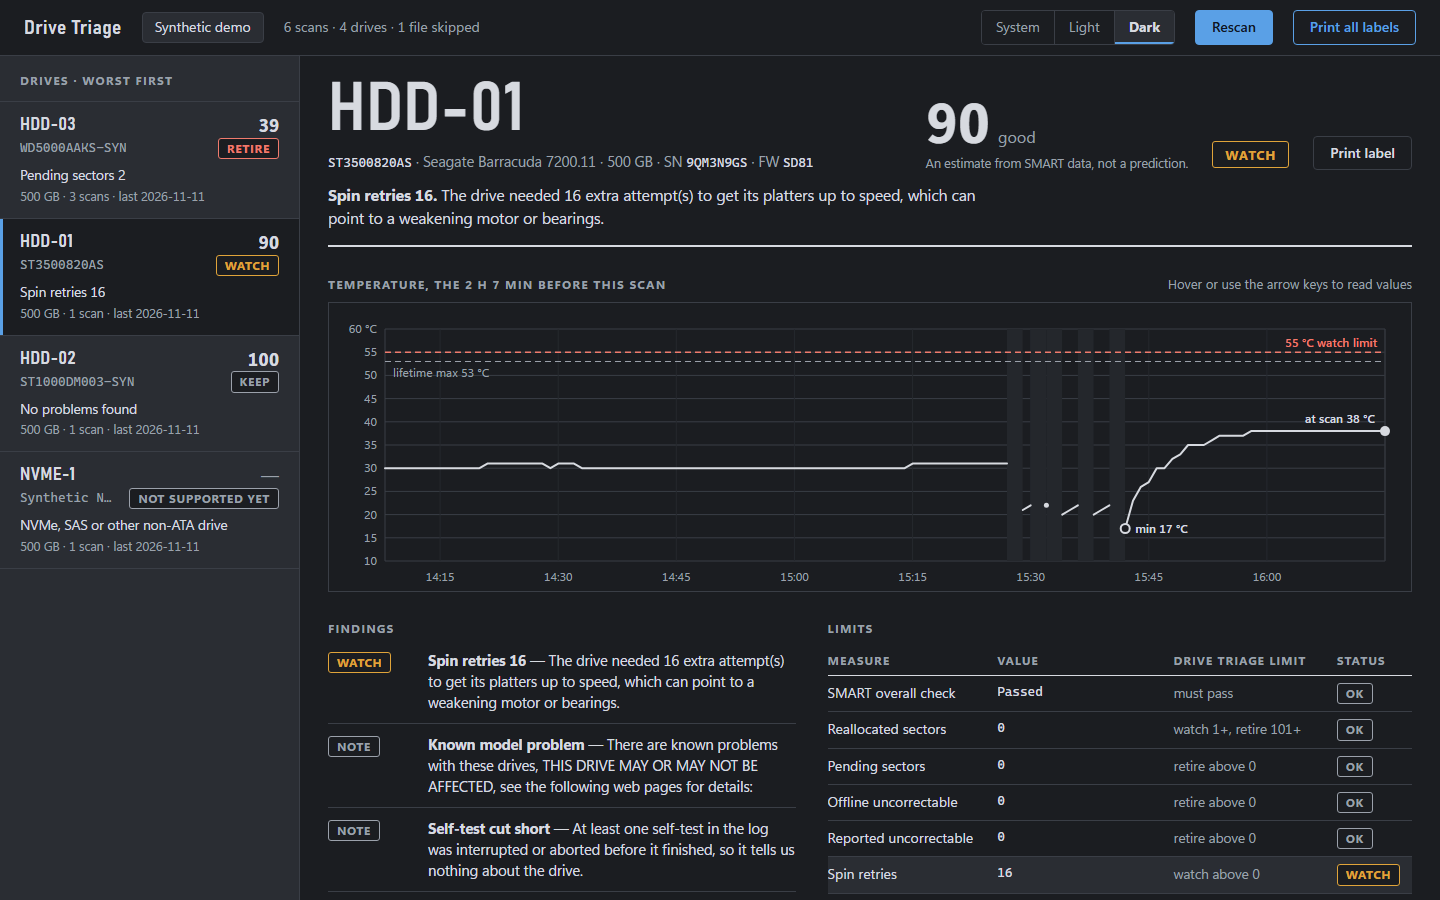
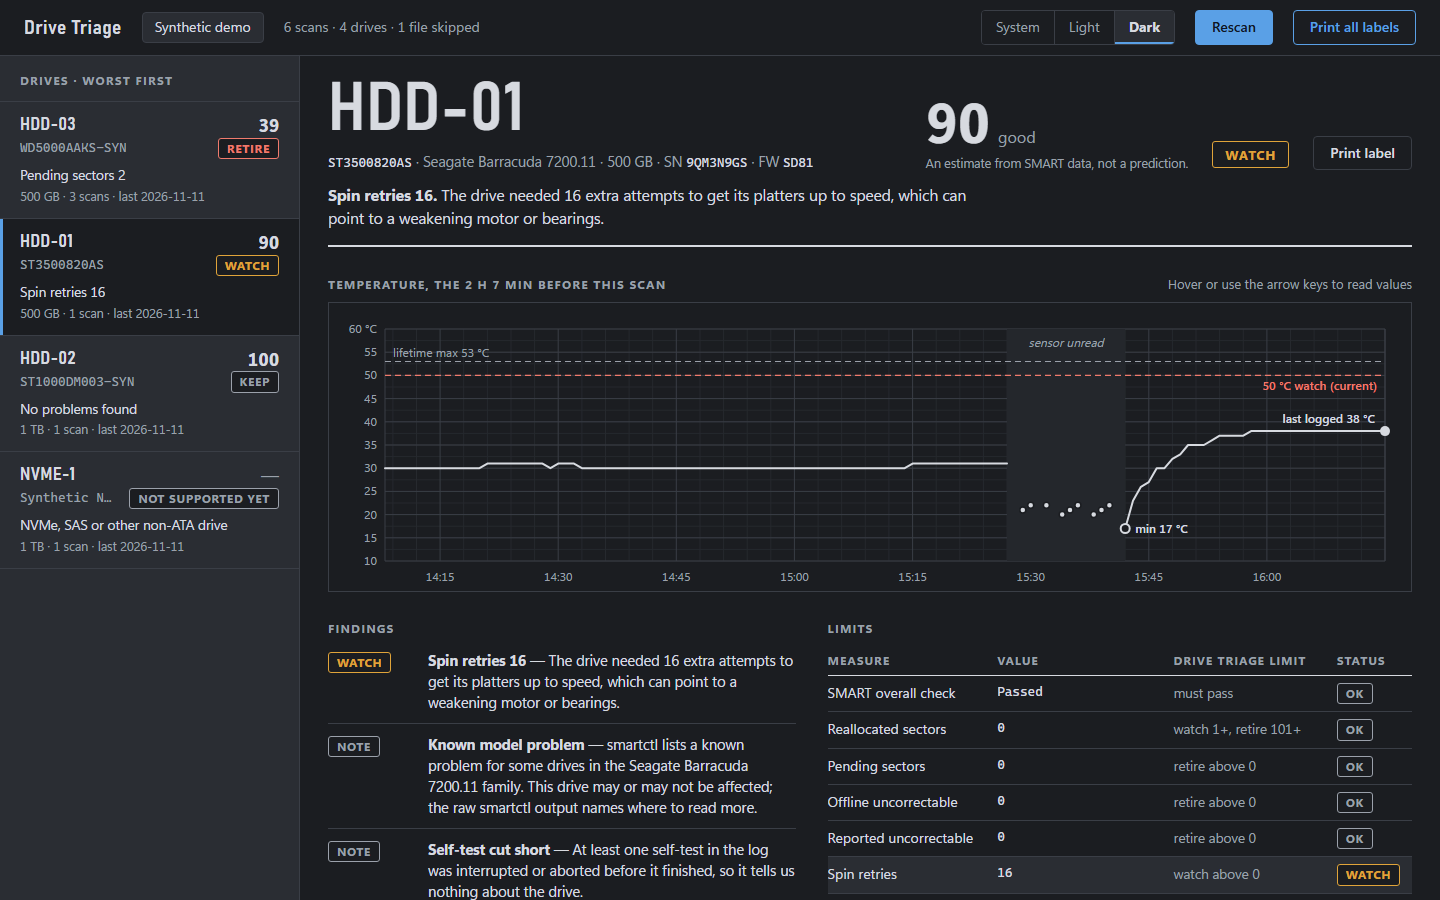
fix: honest temperature curve, graph-paper grid, and unbroken part line
The curve's endpoint reads "last logged" (the SCT log's last sample), so
it can never contradict the Limits "now" value from temperature.current.
The dashed watch line uses RULES.tempCurrentWatch, since the curve plots
instantaneous temperature. A minor graph-paper grid sits under the major
lines. Unread runs separated by three or fewer readings merge into one
"sensor unread" band, with readings inside it and isolated readings drawn
as point marks. Masthead fields (model, family, capacity, SN, FW) are
no-wrap groups so narrow screens break only between fields. README
screenshots are retaken from the current build.

diff --git a/app.js b/app.js
@@ -563,12 +563,15 @@ function masthead(entry) {
   const a = entry.assessment;
   const s = d.latest;
   const mono = (t) => h('span', { class: 'mono', text: t });
+  // each field is a no-wrap group, so narrow screens break lines only between fields
+  const field = (...kids) => h('span', { class: 'nw' }, kids);
+  const cap = SA.formatCapacity(s.capacityBytes);
   const sub = h('p', { class: 'mast-sub' }, joinDot([
-    s.model ? mono(s.model) : null,
-    s.family || null,
-    SA.formatCapacity(s.capacityBytes) || null,
-    ['SN ', mono(s.serial)],
-    s.firmware ? ['FW ', mono(s.firmware)] : null
+    s.model ? field(mono(s.model)) : null,
+    s.family ? field(s.family) : null,
+    cap ? field(cap) : null,
+    field('SN ', mono(s.serial)),
+    s.firmware ? field('FW ', mono(s.firmware)) : null
   ]));
   const score = h('div', { class: 'score' },
     h('p', { class: 'score-line' },
@@ -804,6 +807,21 @@ function rawSection(s) {
 }
 
 // -------------------------------------------------------------------------- curve
+// Null runs in the SCT log separated by MERGE_GAP or fewer readings form one unread band: [[start, end]].
+const MERGE_GAP = 3;
+function unreadBands(hist) {
+  const bands = [];
+  for (let i = 0; i < hist.length; i++) {
+    if (hist[i] !== null) continue;
+    let j = i;
+    while (j + 1 < hist.length && hist[j + 1] === null) j++;
+    const prev = bands[bands.length - 1];
+    if (prev && i - prev[1] - 1 <= MERGE_GAP) prev[1] = j; else bands.push([i, j]);
+    i = j;
+  }
+  return bands;
+}
+
 let curveObserver = null;
 function disconnectCurve() {
   if (curveObserver) { curveObserver.disconnect(); curveObserver = null; }
@@ -856,7 +874,7 @@ function mountCurve(plot, liveRegion, s) {
     const v = hist[i];
     const before = (n - 1 - i) * SAMPLE_MINUTES;
     const d = sampleDate(i);
-    const when = (d ? fmtClock(d) + ', ' : '') + (before === 0 ? 'at the scan' : fmtSpan(before) + ' before the scan');
+    const when = (d ? fmtClock(d) + ', ' : '') + (before === 0 ? 'last logged sample' : fmtSpan(before) + ' before the scan');
     return { value: v === null ? 'sensor unread' : v + ' °C', when };
   };
 
@@ -868,7 +886,7 @@ function mountCurve(plot, liveRegion, s) {
     const ph = H - m.t - m.b;
     const known = hist.filter((v) => v !== null);
     const life = s.temp && typeof s.temp.lifetimeMax === 'number' ? s.temp.lifetimeMax : null;
-    const watch = R.tempLifetimeWatch;
+    const watch = R.tempCurrentWatch; // the curve plots instantaneous temperature
     let lo = Math.min.apply(null, known);
     let hi = Math.max.apply(null, known.concat([watch], life === null ? [] : [life]));
     let y0 = Math.floor((lo - 3) / 5) * 5;
@@ -880,47 +898,57 @@ function mountCurve(plot, liveRegion, s) {
 
     const root = svg('svg', { viewBox: '0 0 ' + W + ' ' + H, width: String(W), height: String(H), 'aria-hidden': 'true', focusable: 'false' });
 
-    // grid: horizontal every 5 degrees, labels every 5 or 10 depending on height
+    // graph paper: minor cells under major lines (5 degrees, clock ticks); labels every 5 or 10 degrees
     const labelEvery = ph / ((y1 - y0) / 5) < 20 ? 10 : 5;
+    const pxPerMin = n > 1 ? pw / ((n - 1) * SAMPLE_MINUTES) : pw;
+    const step = [5, 10, 15, 30, 60, 120, 240, 480].find((st) => st * pxPerMin >= 90) || 480;
+    const sub = [10, 6, 5, 4, 3, 2].find((k) => step % k === 0 && (step / k) * pxPerMin >= 12) || 1;
+    const minorH = [];
     const gridH = [];
+    for (let v = y0; v <= y1; v += 2.5) minorH.push('M' + m.l + ' ' + y(v).toFixed(1) + 'H' + (m.l + pw));
     for (let v = y0; v <= y1; v += 5) gridH.push('M' + m.l + ' ' + y(v).toFixed(1) + 'H' + (m.l + pw));
-    root.append(svg('path', { class: 'grid-major', d: gridH.join(''), fill: 'none' }));
     for (let v = y0; v <= y1; v += 5) {
       if (v % labelEvery) continue;
       root.append(svg('text', { x: m.l - 8, y: (y(v) + 4).toFixed(1), 'text-anchor': 'end' }, v === y1 ? v + ' °C' : String(v)));
     }
 
-    // time ticks on round clock minutes, at least ~90px apart
-    const pxPerMin = n > 1 ? pw / ((n - 1) * SAMPLE_MINUTES) : pw;
-    const step = [5, 10, 15, 30, 60, 120, 240, 480].find((st) => st * pxPerMin >= 90) || 480;
+    // time ticks on round clock minutes, at least ~90px apart; minor lines between them
     const gridV = [];
+    const minorV = [];
+    const minorStep = step / sub;
     for (let i = 0; i < n; i++) {
       const d = sampleDate(i);
       const minutesBefore = (n - 1 - i) * SAMPLE_MINUTES;
-      const onTick = d ? (d.getHours() * 60 + d.getMinutes()) % step === 0 : minutesBefore % step === 0;
-      if (!onTick) continue;
+      const minuteOf = d ? d.getHours() * 60 + d.getMinutes() : -minutesBefore;
+      const onTick = ((minuteOf % step) + step) % step === 0;
+      const onMinor = sub > 1 && ((minuteOf % minorStep) + minorStep) % minorStep === 0;
       const xi = x(i);
+      if (!onTick) {
+        if (onMinor) minorV.push('M' + xi.toFixed(1) + ' ' + m.t + 'V' + (m.t + ph));
+        continue;
+      }
       gridV.push('M' + xi.toFixed(1) + ' ' + m.t + 'V' + (m.t + ph));
       if (xi > m.l + 18 && xi < m.l + pw - 18) {
         root.append(svg('text', { x: xi.toFixed(1), y: H - 6, 'text-anchor': 'middle' }, d ? fmtClock(d) : '−' + fmtSpan(minutesBefore)));
       }
     }
-    root.append(svg('path', { class: 'grid-minor', d: gridV.join(''), fill: 'none' }));
+    root.prepend(svg('path', { class: 'grid-minor', d: minorH.concat(minorV).join(''), fill: 'none' }),
+      svg('path', { class: 'grid-major', d: gridH.concat(gridV).join(''), fill: 'none' }));
     root.append(svg('path', { class: 'grid-major', d: 'M' + m.l + ' ' + m.t + 'V' + (m.t + ph) + 'M' + (m.l + pw) + ' ' + m.t + 'V' + (m.t + ph), fill: 'none' }));
 
-    // gaps where the sensor was not read
-    for (let i = 0; i < n; i++) {
-      if (hist[i] !== null) continue;
-      let j = i;
-      while (j + 1 < n && hist[j + 1] === null) j++;
-      const xa = x(Math.max(0, i - 1));
-      const xb = x(Math.min(n - 1, j + 1));
+    // bands where the sensor was not read: null runs separated by MERGE_GAP or fewer readings
+    // count as one band; readings inside a band are drawn as separate points, not a broken line
+    const bands = unreadBands(hist);
+    const inBand = new Array(n).fill(false);
+    bands.forEach(([a, b]) => {
+      for (let k = a; k <= b; k++) inBand[k] = true;
+      const xa = x(Math.max(0, a - 1));
+      const xb = x(Math.min(n - 1, b + 1));
       root.append(svg('rect', { class: 'gap', x: xa.toFixed(1), y: m.t, width: Math.max(2, xb - xa).toFixed(1), height: ph }));
-      if (xb - xa >= 96) {
-        root.append(svg('text', { class: 'gap-label', x: ((xa + xb) / 2).toFixed(1), y: (m.t + ph / 2).toFixed(1), 'text-anchor': 'middle' }, 'sensor unread'));
+      if (xb - xa >= 84) {
+        root.append(svg('text', { class: 'gap-label', x: ((xa + xb) / 2).toFixed(1), y: (m.t + 18).toFixed(1), 'text-anchor': 'middle' }, 'sensor unread'));
       }
-      i = j;
-    }
+    });
 
     // reference lines
     if (life !== null && life >= y0 && life <= y1) {
@@ -929,16 +957,20 @@ function mountCurve(plot, liveRegion, s) {
       const crowded = life <= watch && y(life) - y(watch) < 16;
       root.append(svg('text', { x: m.l + 8, y: (crowded ? y(life) + 15 : y(life) - 5).toFixed(1) }, 'lifetime max ' + life + ' °C'));
     }
+    // watch label above its line, unless the lifetime-max line sits just above it: then below
+    const watchCrowded = life !== null && life > watch && y(watch) - y(life) < 18;
     root.append(svg('path', { class: 'watch-line', d: 'M' + m.l + ' ' + y(watch).toFixed(1) + 'H' + (m.l + pw) }));
-    root.append(svg('text', { class: 'watch-label', x: m.l + pw - 8, y: (y(watch) - 5).toFixed(1), 'text-anchor': 'end' }, watch + ' °C watch limit'));
+    root.append(svg('text', { class: 'watch-label', x: m.l + pw - 8, y: (watchCrowded ? y(watch) + 15 : y(watch) - 5).toFixed(1), 'text-anchor': 'end' }, watch + ' °C watch (current)'));
 
-    // the trace, broken at gaps; a lone sample between gaps gets a dot
+    // the trace, broken at bands; a reading inside a band or with no valid neighbour is a point mark
+    const point = (i) => root.append(svg('circle', { class: 'point', cx: x(i).toFixed(1), cy: y(hist[i]).toFixed(1), r: 3 }));
     for (let i = 0; i < n; i++) {
       if (hist[i] === null) continue;
+      if (inBand[i]) { point(i); continue; }
       let j = i;
-      while (j + 1 < n && hist[j + 1] !== null) j++;
+      while (j + 1 < n && hist[j + 1] !== null && !inBand[j + 1]) j++;
       if (j === i) {
-        root.append(svg('circle', { class: 'dot', cx: x(i).toFixed(1), cy: y(hist[i]).toFixed(1), r: 2.5 }));
+        point(i);
       } else {
         const d = [];
         for (let k = i; k <= j; k++) d.push((k === i ? 'M' : 'L') + x(k).toFixed(1) + ' ' + y(hist[k]).toFixed(1));
@@ -963,7 +995,7 @@ function mountCurve(plot, liveRegion, s) {
       }
     }
     root.append(svg('circle', { class: 'dot', cx: x(last).toFixed(1), cy: y(hist[last]).toFixed(1), r: 5 }));
-    label(x(last), y(hist[last]), (last === n - 1 ? 'at scan ' : 'last read ') + hist[last] + ' °C', true);
+    label(x(last), y(hist[last]), 'last logged ' + hist[last] + ' °C', true);
 
     // crosshair (drawn on demand) and the hit area for the pointer
     const cross = svg('g', { class: 'crosshair', visibility: 'hidden' });

diff --git a/styles.css b/styles.css
@@ -310,6 +310,7 @@ button { font: inherit; color: inherit; }
 }
 .mast-sub { margin-top: 8px; color: var(--muted); font-size: 14.5px; }
 .mast-sub .mono { color: var(--ink); }
+.mast-sub .nw { white-space: nowrap; }
 .score { display: grid; justify-items: start; }
 .score-line { display: flex; align-items: baseline; gap: 8px; }
 .score-n { font-size: 56px; font-weight: 700; line-height: 1; }
@@ -365,6 +366,7 @@ button { font: inherit; color: inherit; }
 .plot text.watch-label { fill: var(--red); font-weight: 600; }
 .plot .trace { fill: none; stroke: var(--ink); stroke-width: 2; stroke-linejoin: round; stroke-linecap: round; }
 .plot .dot { fill: var(--ink); }
+.plot .point { fill: var(--ink); stroke: var(--ground); stroke-width: 1.5; }
 .plot .ring { fill: var(--ground); stroke: var(--ink); stroke-width: 2; }
 .plot text.mark-label { fill: var(--ink); font-weight: 600; }
 .plot .cross { stroke: var(--blue); stroke-width: 1; }
